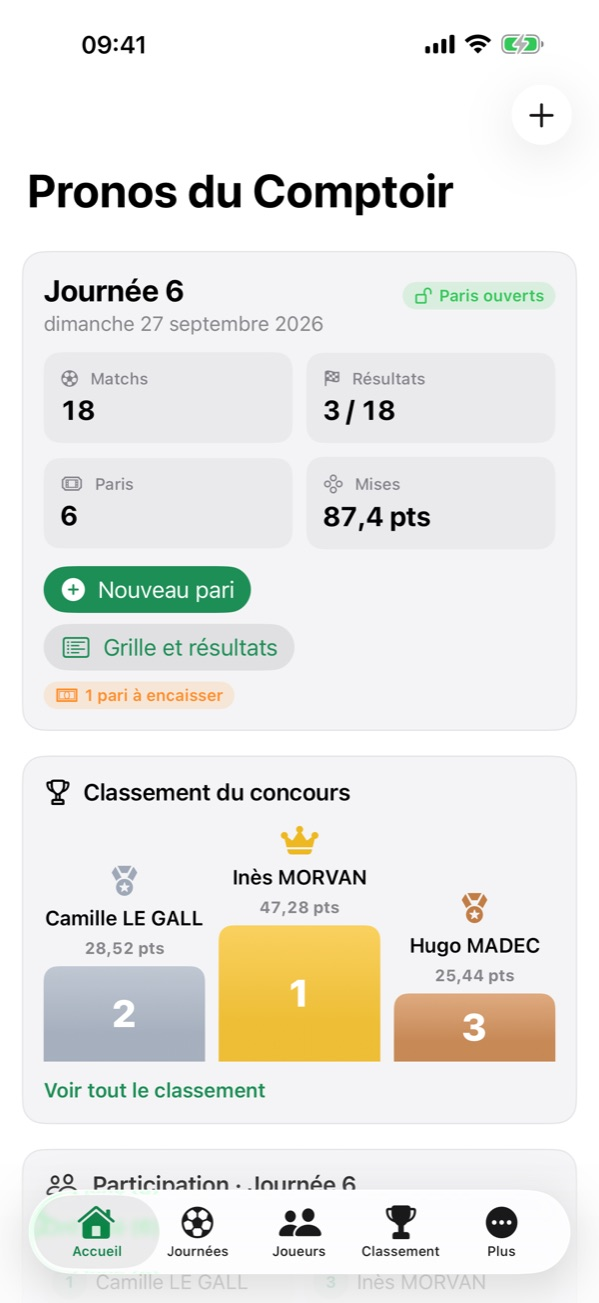
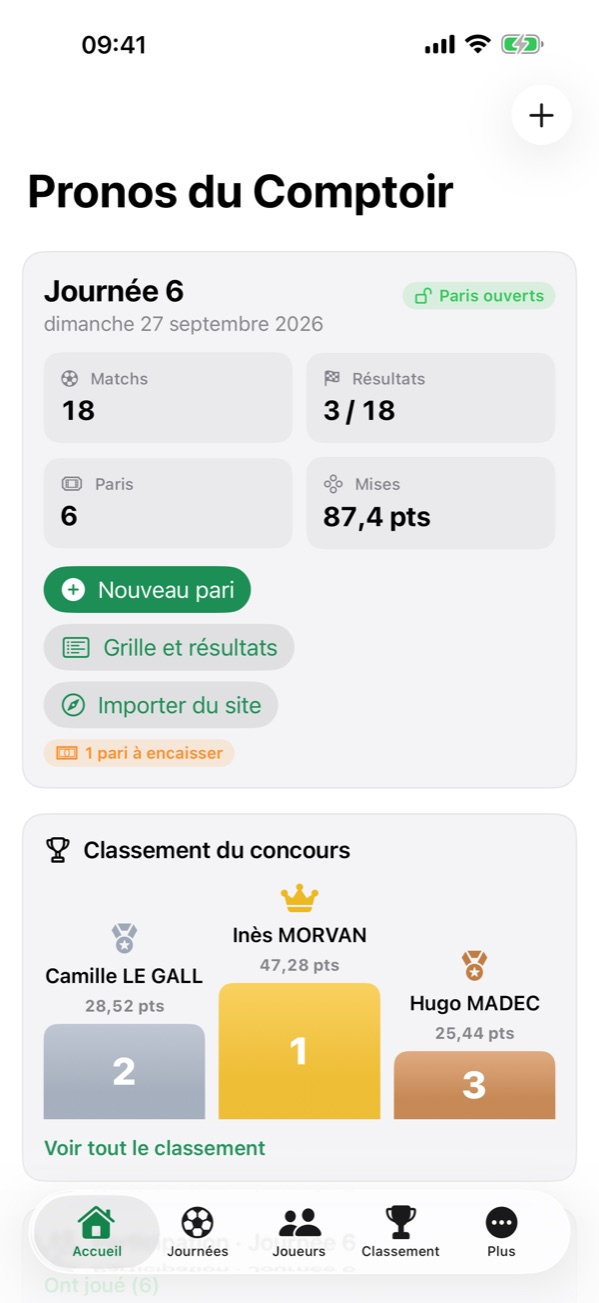
Navigateur intégré : ① matchs pour les paris, ② résultats

diff --git a/assistance.html b/assistance.html
@@ -41,12 +41,16 @@
   précédente sont recopiés, sans leurs résultats. Dans la journée, « Saisie des matchs » affiche tous
   les matchs d'un seul écran : catégorie (R3, D3…), équipes et cotes 1, N et 2.</p>
 
-  <h3>Comment remplir la grille sans tout taper ?</h3>
-  <p>Sur votre site de résultats, sélectionnez la liste des matchs de la journée et copiez-la. Dans la
-  journée, menu ⋯ › « Coller des matchs… », puis « Coller » : l'aperçu montre les matchs reconnus, que
-  l'on peut décocher. Choisissez la catégorie (le championnat) et laissez « Proposer les cotes » coché.
-  On peut aussi taper un match par ligne, « Équipe A - Équipe B », suivi si on veut des trois cotes :
-  « Équipe A - Équipe B 1,8 3,2 4 ».</p>
+  <h3>① Comment ouvrir les matchs aux paris ?</h3>
+  <p>Dans la journée, touchez « Importer du site », puis votre championnat (R3 - A…) : sa page s'ouvre
+  dans le navigateur de l'application. Touchez « ① Matchs pour les paris » : si la page montre une
+  journée déjà jouée, l'application passe d'elle-même à la suivante. Vérifiez la liste et touchez
+  « Ouvrir aux paris » : les matchs s'ajoutent à la grille, cotes proposées et rangs des équipes à jour.
+  Touchez l'icône liste en haut pour enchaîner avec un autre championnat.</p>
+
+  <h3>Et sans site de résultats ?</h3>
+  <p>« Matchs » ou menu ⋯ › « Saisie des matchs », ou « Coller des matchs… » : un match par ligne,
+  « Équipe A - Équipe B », suivi si on veut des trois cotes : « Équipe A - Équipe B 1,8 3,2 4 ».</p>
 
   <h3>Comment imprimer une grille à cocher ?</h3>
   <p>Dans la journée, le bouton d'impression propose « Imprimer… » ou « Partager le PDF… » : une page A4
@@ -54,24 +58,23 @@
 
   <h2>Championnats et cotes</h2>
 
-  <h3>Comment charger mes championnats ?</h3>
-  <p>Onglet Championnats (sur iPhone : Plus › Championnats), bouton + › « Ligue de Bretagne » : choisissez
-  vos championnats, leur page de résultats est retenue. Pour un autre championnat, « Nouveau
-  championnat… », puis menu ⋯ › « Nom et page de résultats… ». Ouvrez ensuite le championnat, touchez
-  « Ouvrir la page », copiez le tableau du classement, revenez et touchez « Coller le classement ».
-  Refaites-le chaque semaine pour le tenir à jour.</p>
+  <h3>Comment choisir mes championnats ?</h3>
+  <p>« Importer du site » propose les 22 championnats de la Ligue de Bretagne (live.newsouest.fr), vos
+  championnats déjà suivis, ou toute autre adresse. Dans l'onglet Championnats (sur iPhone : Plus ›
+  Championnats), le bouton + retient un championnat et sa page ; « Mettre à jour depuis le site » y
+  rafraîchit les rangs des équipes.</p>
 
-  <h3>Pourquoi l'application ne récupère-t-elle pas les classements toute seule ?</h3>
-  <p>Parce que les sites de résultats n'y consentent pas toujours : les conditions de live.newsouest.fr,
-  par exemple, interdisent l'extraction automatique de leurs données. Bob 1N2 ne télécharge donc rien :
-  c'est vous qui copiez la page dans votre navigateur, comme dans un tableur.</p>
+  <h3>L'application récupère-t-elle les résultats toute seule ?</h3>
+  <p>Non : elle ne va chercher aucune page d'elle-même, rien ne se fait en arrière-plan. Elle lit la
+  page que vous avez ouverte et n'en importe rien sans que vous touchiez ① ou ②. Les conditions de certains sites,
+  dont live.newsouest.fr, interdisent l'extraction automatique de leurs données.</p>
 
   <h3>Comment mettre en place les cotes ?</h3>
-  <p>Dans la journée, touchez « Cotes ». « Proposer toutes les cotes » les calcule d'après les classements
-  collés (points et différence de buts de chaque équipe, avantage du terrain) et selon votre marge,
+  <p>Dans la journée, touchez « Cotes ». « Proposer toutes les cotes » les calcule d'après le rang des
+  équipes (points et différence de buts, avantage du terrain) et selon votre marge,
   réglable en haut de l'écran : plus elle est haute, plus les cotes sont basses. Ajustez ensuite chaque
   cote avec − et +, ou tapez-la. La marge de chaque match s'affiche : en rouge, les cotes sont trop
-  généreuses. Une équipe absente des classements compte pour une équipe moyenne.</p>
+  généreuses. Une équipe sans rang connu compte pour une équipe moyenne.</p>
 
   <h2>Les paris</h2>
 
@@ -102,11 +105,12 @@
   Un second appui l'efface. Le menu ⋯ d'un match permet de le déclarer annulé : il compte alors pour une
   cote de 1 dans les paris qui le contiennent.</p>
 
-  <h3>Comment poser tous les résultats d'un coup ?</h3>
-  <p>Copiez les résultats de la journée sur votre site, puis dans l'onglet Résultats, « Coller les
-  résultats copiés sur le site ». Chaque score est rattaché au match qui a les mêmes équipes, même écrites
-  un peu différemment (« PLOUVIEN » et « AS PLOUVIEN »). Un résultat déjà saisi n'est jamais écrasé :
-  l'aperçu le signale.</p>
+  <h3>② Comment poser tous les résultats d'un coup ?</h3>
+  <p>Dans la journée, onglet Résultats, « Importer les résultats du site », puis votre championnat, et
+  « ② Résultats » : si la page montre une journée à venir, l'application revient d'elle-même à la
+  journée jouée. Chaque score est rattaché au match qui a les mêmes équipes, même écrites un peu
+  différemment (« PLOUVIEN » et « AS PLOUVIEN »). Un résultat déjà saisi n'est jamais écrasé : l'aperçu
+  le signale. Touchez « Poser les résultats », puis « Encaisser ».</p>
 
   <h3>Comment verser les gains ?</h3>
   <p>Dès qu'un pari est joué jusqu'au bout — ou perdu, ce qui peut se savoir avant la fin — il devient

diff --git a/index.html b/index.html
@@ -45,9 +45,11 @@
   <ul>
     <li><strong>Les matchs et leurs cotes</strong> — domicile, extérieur, cotes 1, N et 2, regroupés par
     division (R1, R3, D3…) comme sur votre feuille de saisie.</li>
-    <li><strong>Coller plutôt que taper</strong> — copiez la liste des matchs sur votre site de
-    résultats et collez-la : la grille se remplit. On peut aussi taper « Équipe A - Équipe B 1,8 3,2 4 »,
-    cotes comprises, un match par ligne.</li>
+    <li><strong>① Les matchs pour les paris, en un geste</strong> — ouvrez la page de votre championnat
+    dans le navigateur de l'application : les matchs de la prochaine journée s'ajoutent à la grille,
+    cotes proposées. Plusieurs championnats peuvent se suivre dans la même journée.</li>
+    <li><strong>Ou à la main</strong> — un match par ligne, « Équipe A - Équipe B 1,8 3,2 4 », cotes
+    comprises.</li>
     <li><strong>La semaine suivante déjà prête</strong> — une nouvelle journée reprend les matchs de la
     précédente : il ne reste qu'à corriger ce qui change.</li>
     <li><strong>Une grille à cocher</strong> — imprimée en A4, avec une case devant chaque cote, pour
@@ -61,13 +63,13 @@
     <li><strong>Le système</strong> — de 3 à 8 matchs, avec les combinaisons « 2 sur n », « 3 sur n »…
     jusqu'au Goliath et ses 247 combinaisons : quelques erreurs sont permises.</li>
     <li><strong>Une mise jamais au-delà du porte-feuilles</strong>, et un ticket à imprimer ou envoyer.</li>
-    <li><strong>Le rang des équipes</strong> — collez le classement copié sur la page de chaque
-    championnat : il s'affiche à côté de chaque équipe au moment de parier.</li>
+    <li><strong>Le rang des équipes</strong> — il vient avec les matchs importés, s'affiche à côté de
+    chaque équipe au moment de parier et sert à proposer les cotes.</li>
   </ul>
 
   <h2>Les cotes, sans calculette</h2>
   <ul>
-    <li><strong>Proposées d'après les classements</strong> — points et différence de buts de chaque
+    <li><strong>Proposées d'après le rang des équipes</strong> — points et différence de buts de chaque
     équipe, avantage du terrain, et la marge que vous choisissez : plus elle est haute, plus les cotes
     sont basses.</li>
     <li><strong>Ajustées d'un doigt</strong> — un appui sur − ou + pour chaque cote, et la marge de chaque
@@ -79,8 +81,9 @@
 
   <h2>Résultats et encaissement</h2>
   <ul>
-    <li>Un appui sur l'issue gagnante de chaque match, ou les scores copiés sur le site et collés : les
-    résultats se posent seuls sur les bons matchs. Un match annulé compte pour une cote de 1.</li>
+    <li><strong>② Les résultats</strong> — de retour sur la page du championnat, un geste pose les scores
+    sur les bons matchs. Ou un appui sur l'issue gagnante de chaque match. Un match annulé compte pour
+    une cote de 1.</li>
     <li>Chaque ticket se met à jour match par match : en cours, perdu, à encaisser.</li>
     <li>Tous les paris terminés s'encaissent d'un geste, validé par le <strong>code barman</strong> :
     les clients peuvent parier eux-mêmes sur l'iPad du comptoir, seul le barman crédite les points.</li>
@@ -104,8 +107,9 @@
 
   <h2>Sans rien de superflu</h2>
   <p>Pas de compte, pas de publicité, aucune donnée collectée. Joueurs, grilles et paris restent sur
-  votre appareil et tout fonctionne hors connexion. L'application ne télécharge rien : les liens vers
-  votre site de résultats s'ouvrent dans le navigateur, où vous copiez ce qui vous sert.</p>
+  votre appareil. L'application ne va chercher aucune page d'elle-même : son navigateur intégré
+  affiche le site de résultats que vous ouvrez, sans en garder les cookies, et ne retient de la page
+  affichée que ce que vous importez.</p>
 </main>
 <footer class="dedans">Bob 1N2 — Robert Oulhen, éditeur individuel · <a href="mailto:bob.oulhen@gmail.com">bob.oulhen@gmail.com</a></footer>
 </body>

diff --git a/confidentialite.html b/confidentialite.html
@@ -23,13 +23,14 @@
   </div>
 </header>
 <main class="dedans">
-  <p class="date">Dernière mise à jour : 27 septembre 2026 · Version 1.0 (copier-coller des résultats)</p>
+  <p class="date">Dernière mise à jour : 27 septembre 2026 · Version 1.0 (navigateur intégré)</p>
 
   <div class="encadre">
     <h3>En une phrase</h3>
     <p><strong>Bob 1N2 ne collecte, ne transmet et ne conserve chez nous aucune donnée.</strong>
     Il n'y a ni compte, ni publicité, ni traqueur, ni statistique d'usage. Les joueurs, les grilles et
-    les paris restent sur votre appareil, et l'application fonctionne entièrement hors connexion.</p>
+    les paris restent sur votre appareil ; seul le navigateur intégré se connecte, au site de résultats
+    que vous ouvrez.</p>
   </div>
 
   <h2>Qui édite l'application</h2>
@@ -42,7 +43,7 @@
     <li>Aucune publicité, aucune régie publicitaire, aucun identifiant publicitaire (IDFA)</li>
     <li>Aucun outil de mesure d'audience ou d'analyse de comportement</li>
     <li>Aucun accès à la position, aux contacts, aux photos, au calendrier, au micro ou à l'appareil photo</li>
-    <li>Aucune connexion réseau : l'application n'envoie rien, nulle part, et nous n'avons aucun serveur</li>
+    <li>Aucun envoi : l'application ne transmet vos données à personne, et nous n'avons aucun serveur</li>
     <li>Aucun partage avec un tiers, puisque rien n'est collecté</li>
   </ul>
 
@@ -72,11 +73,17 @@
   qui en répondez au sens du règlement général sur la protection des données (RGPD) : un prénom ou un
   surnom suffit souvent, et un joueur qui ne participe plus peut être supprimé à tout moment.</p>
 
-  <h2>Ce que vous collez</h2>
-  <p>Les classements, matchs et résultats que vous copiez sur un site et collez dans l'application sont
-  lus sur l'appareil et ne sont envoyés nulle part. L'application ne se connecte à aucun site : les liens
-  vers votre site de résultats s'ouvrent dans votre navigateur, qui applique ses propres règles et celles
-  du site consulté.</p>
+  <h2>Le navigateur intégré</h2>
+  <p>Pour importer des matchs, des résultats ou les rangs des équipes, l'application affiche dans son
+  navigateur la page de résultats que vous ouvrez (par exemple live.newsouest.fr). Comme avec Safari, ce
+  site reçoit alors les informations techniques de toute visite (adresse IP, type d'appareil) et
+  applique sa propre politique de confidentialité ; il peut afficher de la publicité. Le navigateur de
+  l'application ne garde ni cookies, ni historique, ni données de site d'une ouverture à l'autre.</p>
+  <p>L'application lit la page affichée pour vous dire ce qu'elle contient, et n'en retient quelque
+  chose que lorsque vous touchez « ① Matchs pour les paris », « ② Résultats » ou « Mettre à jour depuis
+  le site ». Ce qu'elle retient (noms d'équipes, scores, rangs) reste sur l'appareil. Elle ne va chercher
+  aucune page d'elle-même. De même, ce que vous collez
+  est lu sur l'appareil et n'est envoyé nulle part.</p>
 
   <h2>Face ID, Touch ID et code de l'appareil</h2>
   <p>Si vous avez oublié le code barman, l'application peut vous demander de vous identifier comme

diff --git a/conditions.html b/conditions.html
@@ -69,13 +69,14 @@
   <p>Les cotes proposées d'après les classements sont un simple point de départ, calculé sur
   l'appareil ; elles ne prédisent rien et restent sous votre seule responsabilité.</p>
 
-  <h2>4 bis. Sites de résultats et contenus collés</h2>
-  <p>L'application ne télécharge rien. Elle propose des liens vers des sites de résultats, dont
-  live.newsouest.fr pour la Ligue de Bretagne, qui s'ouvrent dans votre navigateur ; ces sites sont
-  édités par des tiers, sans lien avec Bob 1N2, et leurs contenus leur appartiennent. Lorsque vous y
-  copiez un classement, une liste de matchs ou des résultats pour les coller dans l'application, il vous
-  appartient de respecter leurs conditions d'utilisation : certains interdisent toute réutilisation de
-  leurs données au-delà d'un usage personnel.</p>
+  <h2>4 bis. Sites de résultats</h2>
+  <p>Le navigateur intégré affiche les sites de résultats que vous ouvrez, dont live.newsouest.fr pour la
+  Ligue de Bretagne, et lit à votre demande les matchs, résultats et rangs des équipes de la page
+  affichée ; l'application ne va chercher aucune page d'elle-même. Ces sites sont édités par des tiers,
+  sans lien avec Bob 1N2 ; leurs contenus et leurs données leur appartiennent. Il vous appartient de
+  respecter leurs conditions d'utilisation : certains interdisent toute réutilisation de leurs données
+  au-delà d'un usage personnel. Bob 1N2 ne garantit ni leur disponibilité, ni l'exactitude de ce qu'ils
+  publient : vérifiez les matchs et les résultats avant d'encaisser.</p>
 
   <h2>5. Vos données</h2>
   <p>Les joueurs, les grilles, les paris et les réglages sont enregistrés sur votre appareil
